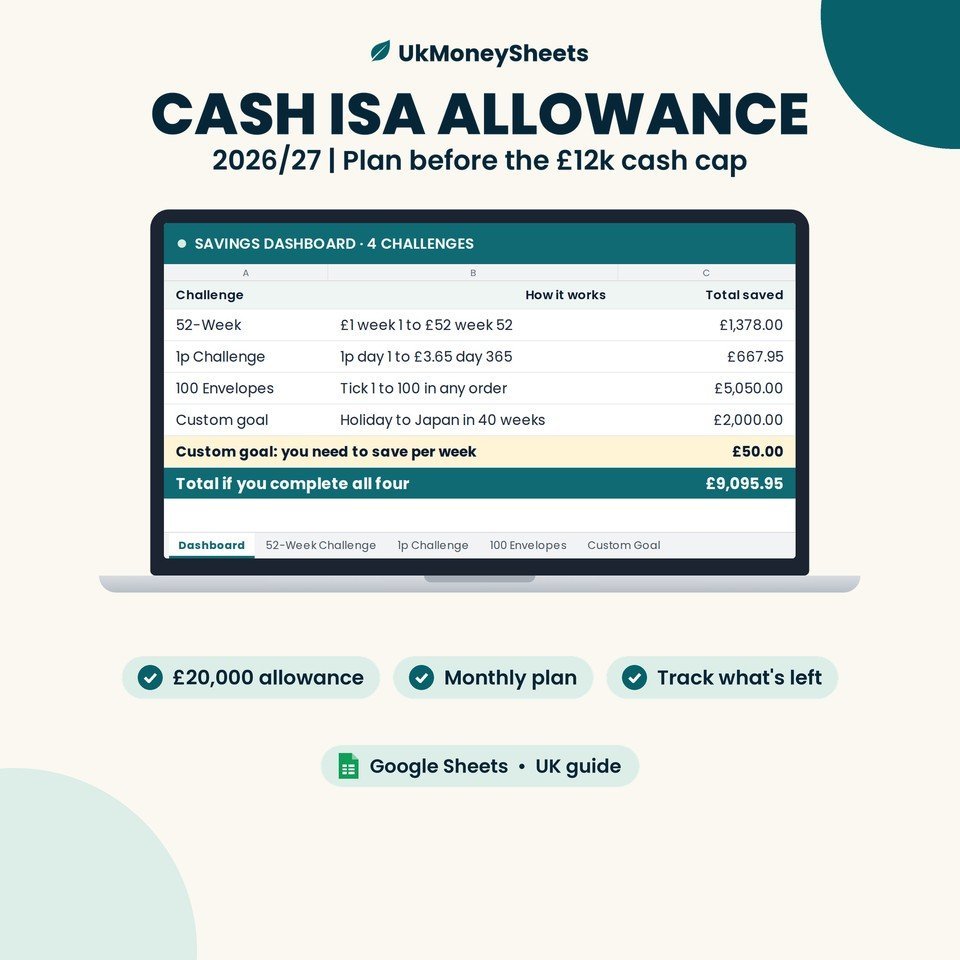
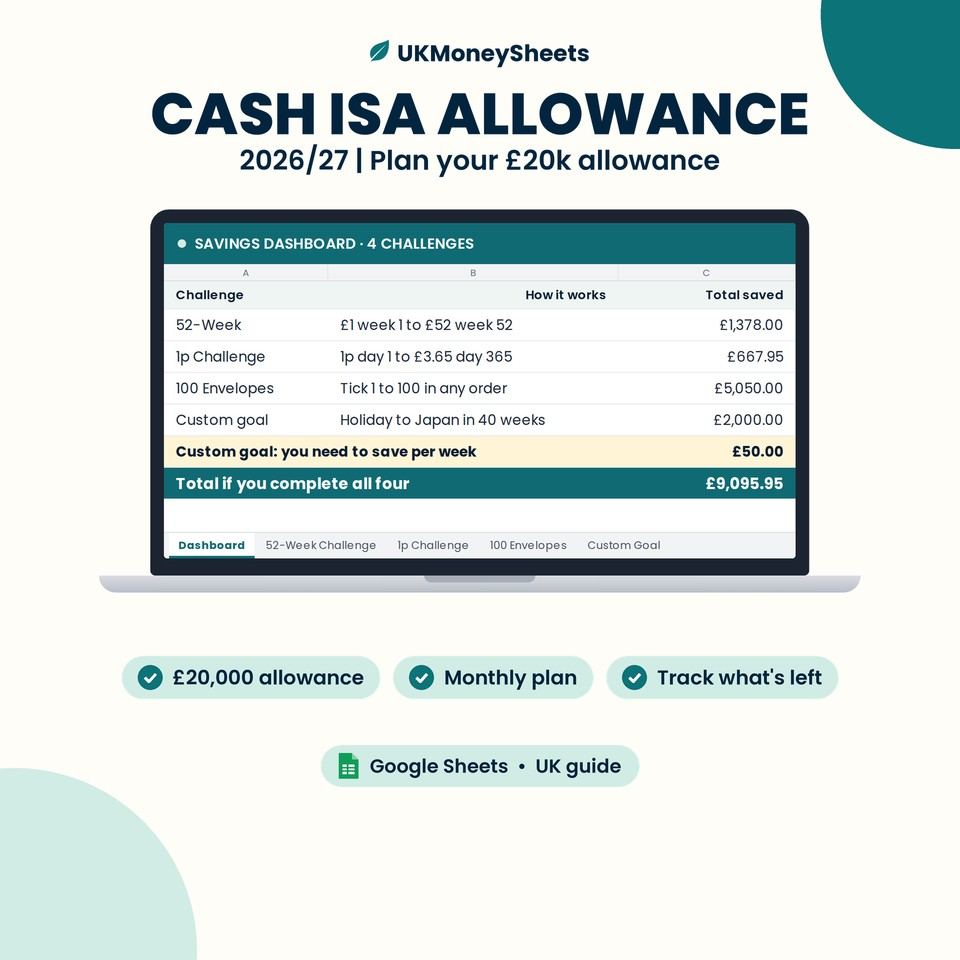
Cash ISA + LISA FAQ schema and cash ISA OG fix

Changed region(s): [[0.2188, 0.1562, 0.7812, 0.1875], [0.375, 0.0312, 0.625, 0.0625]]

diff --git a/src/lib/guides.ts b/src/lib/guides.ts
@@ -112,6 +112,7 @@ export const guides: GuideMeta[] = [
   },
   {
     slug: "cash-isa-12k-under-65-planner",
+    faqSchema: true,
     ctaUrl: "https://www.etsy.com/listing/4461347110?utm_source=site",
     ctaLabel: "Get the UK Net Worth tracker on Etsy",
     seoTitle: "Cash ISA Limit Stays £20,000: 2026/27 Allowance Planner (UK)",
@@ -123,9 +124,9 @@ export const guides: GuideMeta[] = [
       "The planned £12k cash ISA cut for under-65s is cancelled, so the cash ISA limit stays £20,000 from April 2027. Plan your allowance in Google Sheets.",
     category: "Savings",
     featured: true,
-    image: "/guides/cash-isa-12k-under-65-planner.jpg",
+    image: "/guides/cash-isa-12k-under-65-planner.jpg?v=2",
     imageAlt: "Cash ISA allowance planner for 2026/27: Google Sheets dashboard preview, sample data",
-    ogImage: "/og/cash-isa-12k-under-65-planner.jpg",
+    ogImage: "/og/cash-isa-12k-under-65-planner.jpg?v=2",
     ogImageAlt: "Cash ISA allowance planner for 2026/27 \u2014 UkMoneySheets Google Sheets guide",
     showHeaderImage: false,
     inGuideImages: {
@@ -256,6 +257,7 @@ export const guides: GuideMeta[] = [
   },
   {
     slug: "house-deposit-lisa-planner",
+    faqSchema: true,
     ctaUrl: "https://www.etsy.com/listing/4463017307?utm_source=site",
     ctaLabel: "Get the House Deposit Savings Planner on Etsy",
     seoTitle: "House Deposit & LISA Planner UK (2026/27)",
